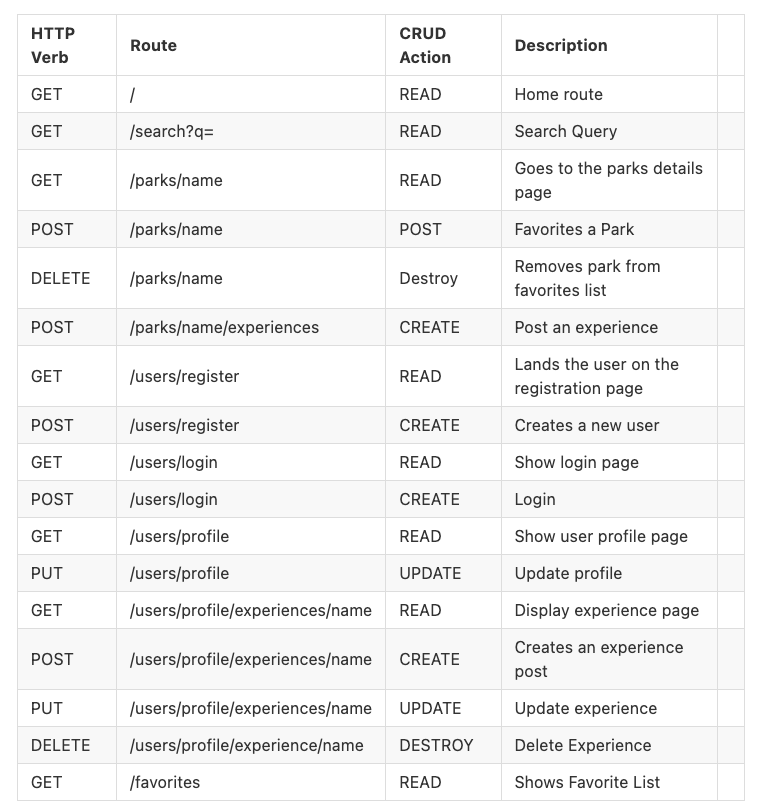
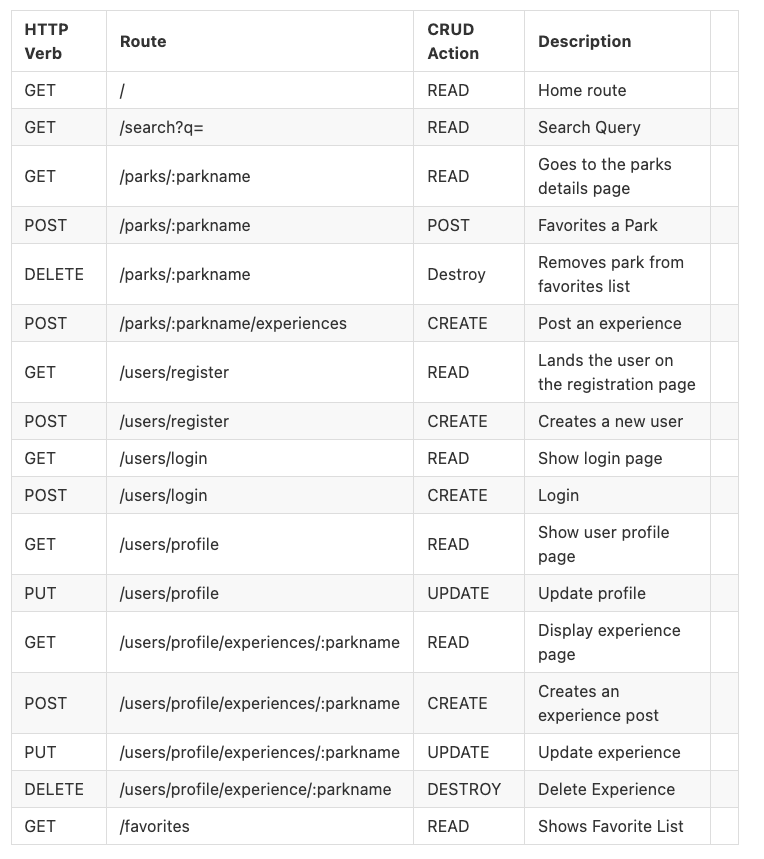
updated README

diff --git a/README.md b/README.md
@@ -21,7 +21,7 @@ Working in a small team, we are challenged to develop a beautiful, mobile-first 
 ![Example](./readMedia/NPS-API-example.png)
 
 ## Entity Relational Diagram
-![User schema](./readMedia/User-collection-schema.png)
+![Models](./readMedia/erd.png)
 
 ## RESTful Routing Chart
 ![Routing chart](./readMedia/app-routes.png)
@@ -80,7 +80,7 @@ Edit experience
 * As a user I want to know about trailheads in and around a national park
 * As a user I want to see parks and activities that are curated for me
 * As a user I want to see a carousel of images of a specific park
-* As a user I want to like a national park
+* As a user I want to like national parks
 
 ## Goals
 ### Functionality MVP
@@ -89,7 +89,7 @@ Edit experience
 * Populate information from a third-party API
 * Be able to CRUD to the database
 * Create a database that stores user information
-* Render images and experiences from the user database
+* Render single image either uploaded by user or default image from API
 
 
 ### Functionality Stretch
